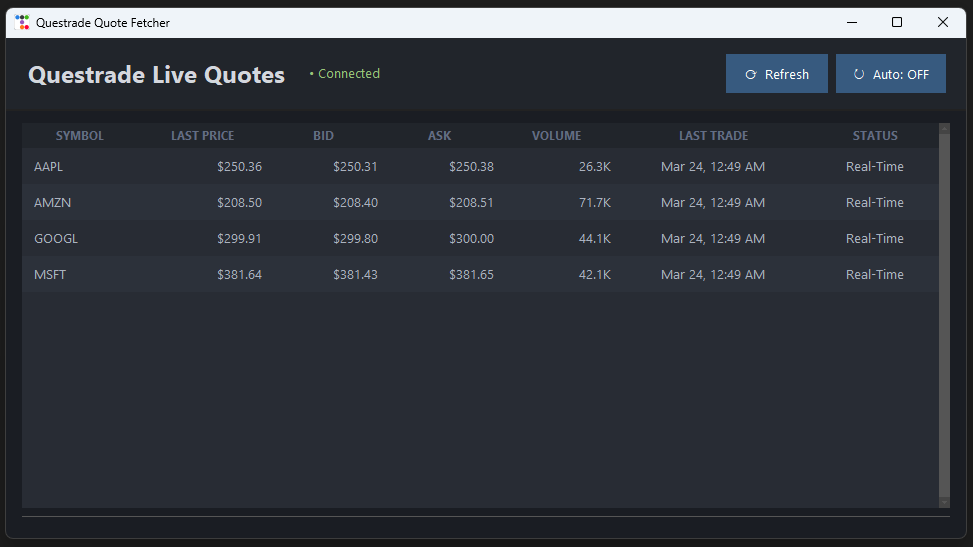
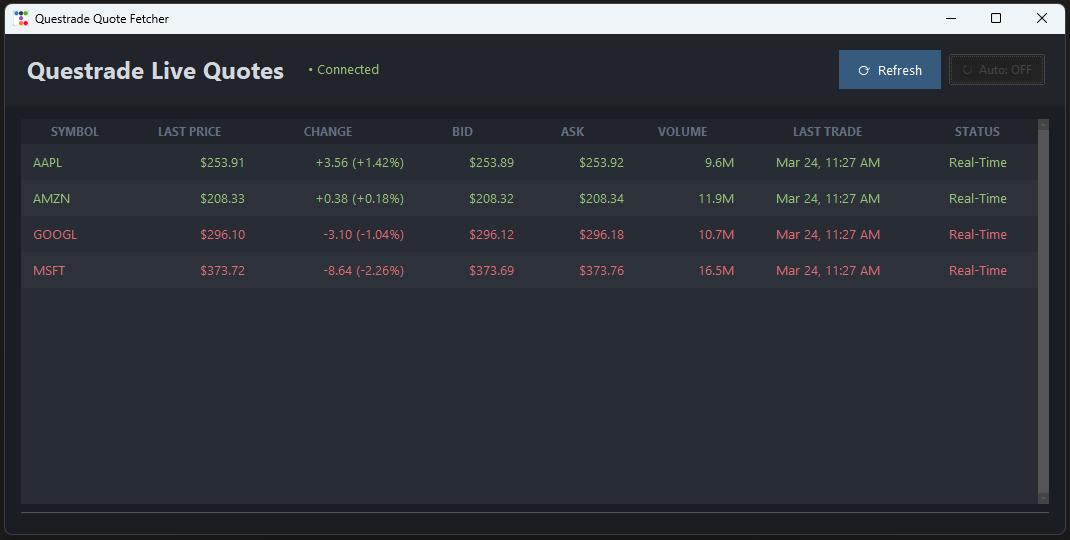
Add price change formatting and update Quote model with open_price field

diff --git a/src/questrade/gui.py b/src/questrade/gui.py
@@ -4,10 +4,10 @@ from __future__ import annotations
 import ctypes
 import threading
 import tkinter as tk
-from datetime import datetime, timezone
+from datetime import datetime
 
 import ttkbootstrap as ttk
-from ttkbootstrap.constants import BOTH, DISABLED, END, LEFT, NORMAL, RIGHT, X, Y, BOTTOM, TOP, W, E
+from ttkbootstrap.constants import BOTH, DISABLED, E, END, LEFT, NORMAL, RIGHT, W, X, Y
 
 from questrade.main import fetch_all_quotes
 from questrade.models.errors import (
@@ -73,6 +73,26 @@ def _fmt_retrieved(dt: object) -> str:
     return str(dt)
 
 
+def _fmt_change(quote: Quote) -> str:
+    """Format daily price change as '+1.23 (+0.5%)' or '-1.23 (-0.5%)'."""
+    if quote.last_trade_price is None or quote.open_price is None:
+        return "---"
+    change = quote.last_trade_price - quote.open_price
+    if quote.open_price != 0:
+        pct = (change / quote.open_price) * 100
+    else:
+        pct = 0.0
+    sign = "+" if change >= 0 else ""
+    return f"{sign}{change:,.2f} ({sign}{pct:.2f}%)"
+
+
+def _get_change_value(quote: Quote) -> float | None:
+    """Return the raw price change, or None if unavailable."""
+    if quote.last_trade_price is None or quote.open_price is None:
+        return None
+    return quote.last_trade_price - quote.open_price
+
+
 def _fmt_status(quote: Quote) -> str:
     if quote.is_halted:
         return "HALTED"
@@ -86,8 +106,8 @@ class QuoteApp(ttk.Window):
 
     def __init__(self) -> None:
         super().__init__(title="Questrade Quote Fetcher", themename="darkly")
-        self.minsize(900, 400)
-        self.geometry("960x500")
+        self.minsize(960, 400)
+        self.geometry("1060x500")
         self._auto_refresh_on = False
         self._countdown = 0
         self._countdown_timer_id: str | None = None
@@ -254,7 +274,7 @@ class QuoteApp(ttk.Window):
         table_frame = ttk.Frame(self, style="Dark.TFrame", padding=(16, 12, 16, 0))
         table_frame.pack(fill=BOTH, expand=True)
 
-        columns = ("symbol", "last_price", "bid", "ask", "volume", "last_trade", "status")
+        columns = ("symbol", "last_price", "change", "bid", "ask", "volume", "last_trade", "status")
         self._tree = ttk.Treeview(
             table_frame,
             columns=columns,
@@ -266,6 +286,7 @@ class QuoteApp(ttk.Window):
         headings = {
             "symbol": "SYMBOL",
             "last_price": "LAST PRICE",
+            "change": "CHANGE",
             "bid": "BID",
             "ask": "ASK",
             "volume": "VOLUME",
@@ -273,13 +294,14 @@ class QuoteApp(ttk.Window):
             "status": "STATUS",
         }
         col_config = {
-            "symbol":     {"width": 100, "minwidth": 70,  "anchor": W},
-            "last_price": {"width": 110, "minwidth": 90,  "anchor": E},
-            "bid":        {"width": 100, "minwidth": 80,  "anchor": E},
-            "ask":        {"width": 100, "minwidth": 80,  "anchor": E},
-            "volume":     {"width": 100, "minwidth": 70,  "anchor": E},
-            "last_trade": {"width": 180, "minwidth": 140, "anchor": tk.CENTER},
-            "status":     {"width": 110, "minwidth": 90,  "anchor": tk.CENTER},
+            "symbol":     {"width": 90,  "minwidth": 70,  "anchor": W},
+            "last_price": {"width": 100, "minwidth": 90,  "anchor": E},
+            "change":     {"width": 140, "minwidth": 110, "anchor": E},
+            "bid":        {"width": 90,  "minwidth": 70,  "anchor": E},
+            "ask":        {"width": 90,  "minwidth": 70,  "anchor": E},
+            "volume":     {"width": 90,  "minwidth": 70,  "anchor": E},
+            "last_trade": {"width": 160, "minwidth": 130, "anchor": tk.CENTER},
+            "status":     {"width": 100, "minwidth": 80,  "anchor": tk.CENTER},
         }
         for col in columns:
             self._tree.heading(col, text=headings[col])
@@ -291,6 +313,10 @@ class QuoteApp(ttk.Window):
         self._tree.tag_configure("stripe", background=CLR_BG_ROW_ALT)
         self._tree.tag_configure("halted_stripe", foreground=CLR_RED, background=CLR_BG_ROW_ALT)
         self._tree.tag_configure("delayed_stripe", foreground=CLR_ORANGE, background=CLR_BG_ROW_ALT)
+        self._tree.tag_configure("change_up", foreground=CLR_GREEN)
+        self._tree.tag_configure("change_down", foreground=CLR_RED)
+        self._tree.tag_configure("change_up_stripe", foreground=CLR_GREEN, background=CLR_BG_ROW_ALT)
+        self._tree.tag_configure("change_down_stripe", foreground=CLR_RED, background=CLR_BG_ROW_ALT)
 
         # Scrollbar
         scrollbar = ttk.Scrollbar(table_frame, orient="vertical", command=self._tree.yview)
@@ -408,27 +434,35 @@ class QuoteApp(ttk.Window):
 
         for i, quote in enumerate(quotes):
             is_stripe = i % 2 == 1
+            tags: list[str] = []
 
+            # Row background stripe
+            if is_stripe:
+                tags.append("stripe")
+
+            # Status color (halted/delayed override row text color)
             if quote.is_halted:
-                tag = "halted_stripe" if is_stripe else "halted"
+                tags = ["halted_stripe" if is_stripe else "halted"]
             elif quote.delay > 0:
-                tag = "delayed_stripe" if is_stripe else "delayed"
-            elif is_stripe:
-                tag = "stripe"
+                tags = ["delayed_stripe" if is_stripe else "delayed"]
             else:
-                tag = ""
-
-            status_text = _fmt_status(quote)
+                # Change color for normal rows
+                change = _get_change_value(quote)
+                if change is not None and change > 0:
+                    tags = ["change_up_stripe" if is_stripe else "change_up"]
+                elif change is not None and change < 0:
+                    tags = ["change_down_stripe" if is_stripe else "change_down"]
 
             self._tree.insert("", END, values=(
                 f"  {quote.symbol}",
                 _fmt_price(quote.last_trade_price),
+                _fmt_change(quote),
                 _fmt_price(quote.bid_price),
                 _fmt_price(quote.ask_price),
                 _fmt_volume(quote.volume),
                 _fmt_time(quote.last_trade_time),
-                status_text,
-            ), tags=(tag,) if tag else ())
+                _fmt_status(quote),
+            ), tags=tuple(tags) if tags else ())
 
         self._quote_count = len(quotes)
         self._time_label.configure(

diff --git a/tests/fixtures/quote_fixtures.py b/tests/fixtures/quote_fixtures.py
@@ -43,6 +43,7 @@ def _mock_quote(
     last_trade_price: float | None = 100.00,
     bid_price: float | None = None,
     ask_price: float | None = None,
+    open_price: float | None = 98.50,
     delay: int = 0,
     is_halted: bool = False,
 ) -> dict:
@@ -58,6 +59,7 @@ def _mock_quote(
         "lastTradeTime": "2026-03-21T19:34:12.000000-04:00",
         "bidPrice": bid_price,
         "askPrice": ask_price,
+        "openPrice": open_price,
         "volume": 1_500_000,
         "delay": delay,
         "isHalted": is_halted,

diff --git a/src/questrade/models/quote.py b/src/questrade/models/quote.py
@@ -23,6 +23,7 @@ class Quote(BaseModel):
     bid_price: float | None         = Field(alias="bidPrice")     # None outside market hours
     ask_price: float | None         = Field(alias="askPrice")     # None outside market hours
     volume: int
+    open_price: float | None        = Field(alias="openPrice", default=None)
     delay: int
     is_halted: bool                 = Field(alias="isHalted")
 
